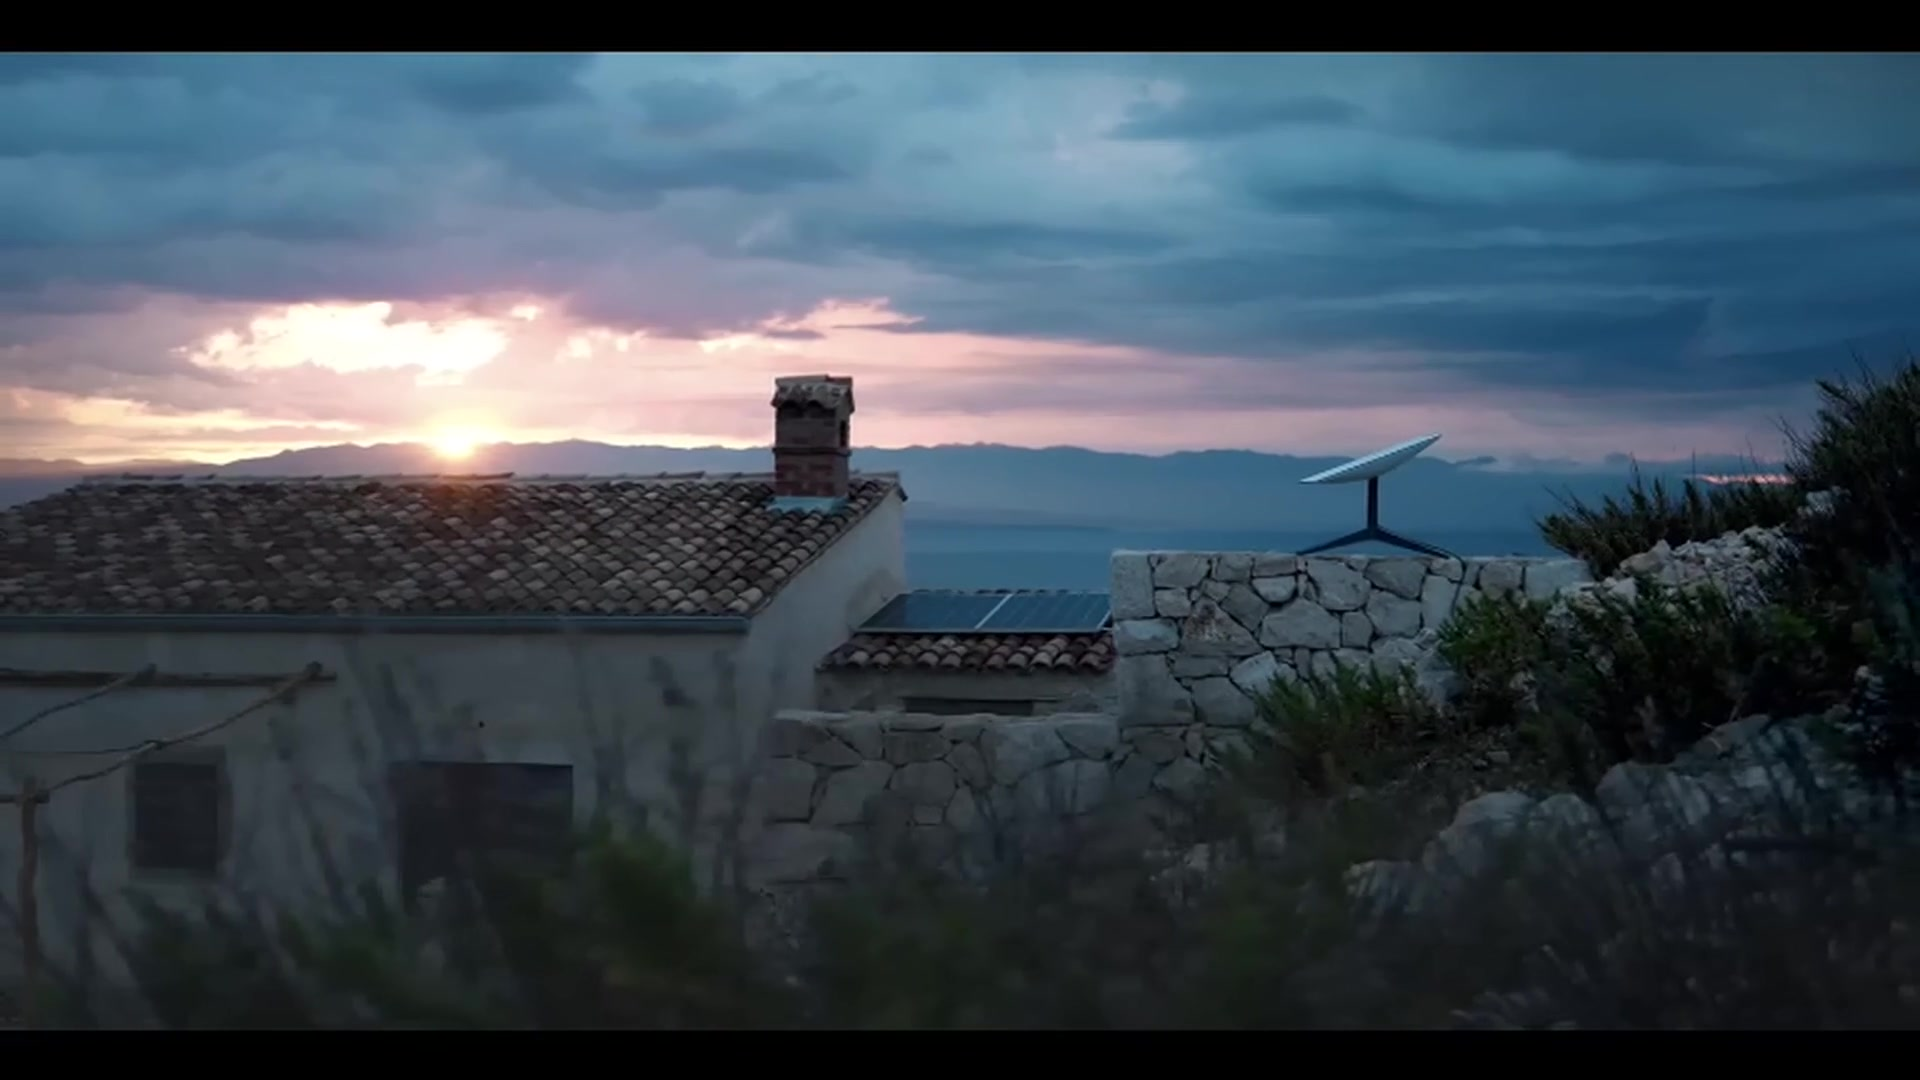
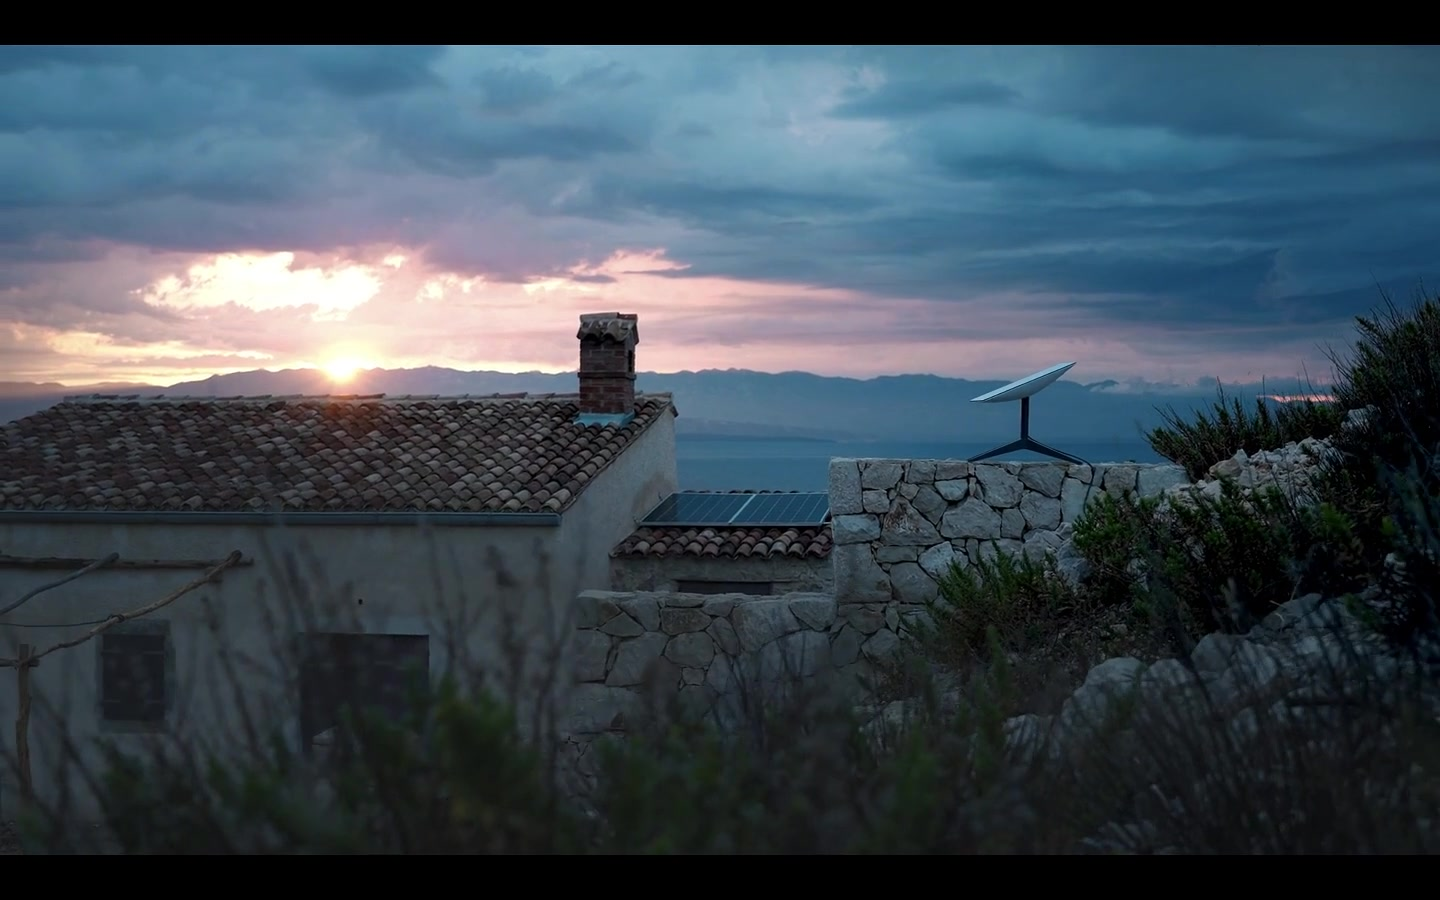
Marquee + photos produits + video hero
Marques (visible uniquement sur les 2 pages PAC, place entre specs et FAQ)
- Retire : Enphase, Recom Sillia, Siemens, SMA, SolarEdge, ISOVER
- Ajoute : Atlantic, Frisquet, Ariston (logos PNG/WEBP dans public/brands/)
- Titre : 'Nos marques partenaires' -> 'Nos marques proposees'
- Fix render : champ ext explicite par marque -> evite la chaine onError svg/png/webp qui ratait
- Tailles ajustees : Thaleos imgScale 1.7, Atlantic/Frisquet 1.55, Ariston 2.4
- Card marquee passe en min-height (etait height fixe) pour accueillir logos + grands

Photos produits / realisations
- ITE : nouvelle photo (Photos/isolation exterieure.jpg) sur la card home,
  la page produit, et la realisation Lille (qui-sommes-nous)
- Bordeaux realisation : nouvelle photo (public/realisations/bordeaux.jpg)
- Ballon thermo : page produit hero alignee sur la photo du home grid

Video hero home
- Source remplacee par la nouvelle Photos/Video Page d'acceuil.mp4 (HD 1440x900, 15 Mb/s)
- Reencodage simplifie (pas de denoise/upscale, source deja clean)
- Output 1440x900 H.264 High @ 30 fps, CRF 20, 2.6 MB MP4 + 1.2 MB WebM
- Nouveau poster genere depuis la derniere frame

diff --git a/src/components/brand/BrandsMarquee.tsx b/src/components/brand/BrandsMarquee.tsx
@@ -35,15 +35,14 @@ type Brand = {
 };
 
 const BRANDS: Brand[] = [
-  { slug: "enphase",     display: "ENPHASE",     color: "#F36F21", tracking: "0.06em",                                  ext: "webp" },
-  { slug: "recom",       display: "RECOM",       color: "#111111", tracking: "0.10em",                                  ext: "png" },
-  { slug: "thaleos",     display: "Thaleos",     color: "#1a3c70", weight: 900, tracking: "-0.01em", imgScale: 1.45,    ext: "png" },
+  { slug: "thaleos",     display: "Thaleos",     color: "#1a3c70", weight: 900, tracking: "-0.01em", imgScale: 1.7,     ext: "png" },
   { slug: "daikin",      display: "DAIKIN",      color: "#003D89", tracking: "0.06em",                                  ext: "png" },
   { slug: "mitsubishi",  display: "MITSUBISHI",  color: "#E60012", tracking: "0.04em", scale: 0.92,                     ext: "png" },
   { slug: "viessmann",   display: "VIESSMANN",   color: "#D31027", tracking: "0.04em", scale: 0.92,                     ext: "png" },
   { slug: "de-dietrich", display: "De Dietrich", color: "#1a1a1a", weight: 700, tracking: "-0.01em",                    ext: "png" },
-  { slug: "atlantic",    display: "Atlantic",    color: "#0050A0", weight: 900, tracking: "-0.01em",                    ext: "png" },
-  { slug: "frisquet",    display: "FRISQUET",    color: "#003E80", tracking: "0.05em",                                  ext: "png" },
+  { slug: "atlantic",    display: "Atlantic",    color: "#0050A0", weight: 900, tracking: "-0.01em", imgScale: 1.55,    ext: "png" },
+  { slug: "frisquet",    display: "FRISQUET",    color: "#003E80", tracking: "0.05em",               imgScale: 1.55,    ext: "png" },
+  { slug: "ariston",     display: "ARISTON",     color: "#005CAB", tracking: "0.04em",               imgScale: 2.4,     ext: "webp" },
 ];
 
 function BrandWordmark({ brand }: { brand: Brand }) {

diff --git a/src/app/(public)/services/[slug]/page.tsx b/src/app/(public)/services/[slug]/page.tsx
@@ -172,6 +172,9 @@ export default async function ServiceDetailPage({ params }: { params: { slug: st
         </Section>
       )}
 
+      {/* Marques proposées — uniquement sur les pages PAC */}
+      {service.slug.startsWith("pompe-a-chaleur") && <BrandsMarquee />}
+
       {service.faq.length > 0 && (
         <Section className="bg-primary-50">
           <Container className="max-w-3xl">
@@ -206,8 +209,6 @@ export default async function ServiceDetailPage({ params }: { params: { slug: st
           </Container>
         </Section>
       )}
-
-      <BrandsMarquee />
 
       <Section tone="muted">
         <Container>

diff --git a/src/app/globals.css b/src/app/globals.css
@@ -180,8 +180,8 @@ h1 {
   display: inline-flex;
   align-items: center;
   justify-content: center;
-  height: 72px;
-  padding: 0 1.75rem;
+  min-height: 72px;
+  padding: 0.5rem 1.75rem;
   border-radius: 0.5rem;
   background: var(--color-surface);
   border: 1px solid var(--color-border);

diff --git a/src/lib/realisations.ts b/src/lib/realisations.ts
@@ -117,7 +117,7 @@ export const REALISATIONS: Realisation[] = [
     quote:
       "On hésitait entre changer les fenêtres et l'isolation des murs. Le conseiller a chiffré les deux et nous a expliqué que l'ITE était dix fois plus rentable dans notre cas. On confirme : la maison ne refroidit plus la nuit.",
     customerName: "M. et Mme B.",
-    coverImage: "https://placehold.co/1200x800/EAEAEA/0F3D26?text=Avant+/+Après",
+    coverImage: "/uploads/isolation-exterieure-6b7f7ec5.jpg",
     placeholder: true,
   },
 
@@ -148,7 +148,7 @@ export const REALISATIONS: Realisation[] = [
     quote:
       "Autoconsommation à 65 % la première année. On lance lave-linge et lave-vaisselle en journée, et on revend le surplus. Le retour sur investissement est tenable, surtout avec l'augmentation des tarifs EDF.",
     customerName: "Famille G.",
-    coverImage: "https://placehold.co/1200x800/EAEAEA/0F3D26?text=Avant+/+Après",
+    coverImage: "/realisations/bordeaux.jpg",
     placeholder: true,
   },
 